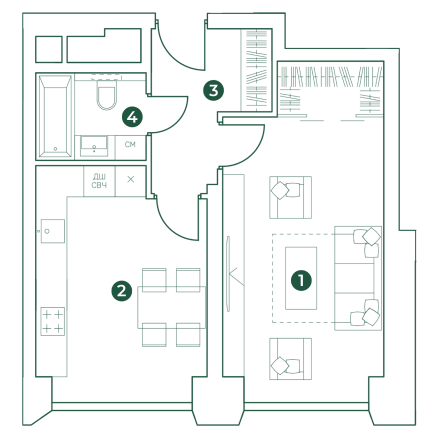
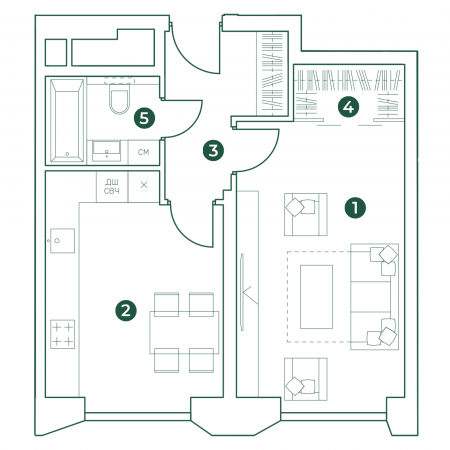
Very update

Changed region(s): [[0.0297, 0.0297, 0.9498, 0.9795]]

diff --git a/very/index.html b/very/index.html
@@ -1662,7 +1662,7 @@
                               >
                             </li>
                           </ul>
-                          <span class="price-block">10 416 240 ₽</span>
+                          <span class="price-block">10 463 160 ₽</span>
                         </div>
                       </div>
                       <div class="cta-layer cta-layer_gradient">
@@ -1788,7 +1788,7 @@
                             alt=""
                           />
                           <h1 class="block-title" style="margin: 0 0 20px">
-                            1-комнатная квартира 42.18 м²
+                            1-комнатная квартира 43.23 м²
                           </h1>
                           <ul
                             class="layout-params-list"
@@ -1813,7 +1813,7 @@
                               <span class="page-text">Гардеробная</span>
                             </li>
                           </ul>
-                          <span class="price-block">16 200 000 ₽</span>
+                          <span class="price-block">19 712 880 ₽</span>
                         </div>
                       </div>
                       <div class="cta-layer cta-layer_gradient">
@@ -1843,13 +1843,14 @@
                       >
                         <div class="attachment-cnt" style="padding-top: 30px">
                           <h2 class="block-title" style="margin: 0 0 12px">
-                            Общая площадь - 42.18 м²
+                            Общая площадь - 43.23 м²
                           </h2>
                           <ol class="ordered-list">
-                            <li>Гостиная — 18.9 м²</li>
-                            <li>Кухня — 14.01 м²</li>
-                            <li>Коридор — 5.69 м²</li>
-                            <li>Санузел — 3.58 м²</li>
+                            <li>Гостиная — 15.66 м²</li>
+                            <li>Кухня — 14.3 м²</li>
+                            <li>Коридор — 5.75 м²</li>
+                            <li>Гардероб — 3.9 м²</li>
+                            <li>Санузел — 3.62 м²</li>
                           </ol>
                           <h2 class="block-title">Особенности</h2>
                           <ul
@@ -1971,7 +1972,7 @@
                               >
                             </li>
                           </ul>
-                          <span class="price-block">18 834 450 ₽</span>
+                          <span class="price-block">20 262 000 ₽</span>
                         </div>
                       </div>
                       <div class="cta-layer cta-layer_gradient">
@@ -2130,7 +2131,7 @@
                               >
                             </li>
                           </ul>
-                          <span class="price-block">21 236 370 ₽</span>
+                          <span class="price-block">22 760 635 ₽</span>
                         </div>
                       </div>
                       <div class="cta-layer cta-layer_gradient">
@@ -2260,7 +2261,7 @@
                             alt=""
                           />
                           <h1 class="block-title" style="margin: 0 0 30px">
-                            3-комнатная квартира 72.27&nbsp;м²
+                            3-комнатная квартира 76.82&nbsp;м²
                           </h1>
                           <ul
                             class="layout-params-list"
@@ -2298,7 +2299,7 @@
                               <span class="page-text">Вид на Останкино</span>
                             </li>
                           </ul>
-                          <span class="price-block">29 486 160 ₽</span>
+                          <span class="price-block">33 954 440 ₽</span>
                         </div>
                       </div>
                       <div class="cta-layer cta-layer_gradient">
@@ -2328,16 +2329,15 @@
                       >
                         <div class="attachment-cnt" style="padding-top: 30px">
                           <h2 class="block-title" style="margin: 0 0 12px">
-                            Общая площадь — 72.27 м²
+                            Общая площадь — 76.82 м²
                           </h2>
                           <ol class="ordered-list">
-                            <li>Кухня-гостиная — 25.4 м²</li>
-                            <li>Спальня — 14.66 м²</li>
-                            <li>Спальня — 16.22 м²</li>
-                            <li>Коридор — 2.55 м²</li>
-                            <li>Коридор — 4.85 м²</li>
-                            <li>Санузел — 4.27 м²</li>
-                            <li>Санузел — 4.32 м²</li>
+                            <li>Кухня-гостиная — 29.12 м²</li>
+                            <li>Спальня — 14.63 м²</li>
+                            <li>Спальня — 16.34 м²</li>
+                            <li>Коридор — 8.43 м²</li>
+                            <li>Санузел — 4.24 м²</li>
+                            <li>Санузел — 4.06 м²</li>
                           </ol>
                           <h2 class="block-title">Особенности</h2>
                           <ul
@@ -2402,6 +2402,159 @@
                   </div>
 
                   <!-- VERY: SLIDE 5-6 -->
+                  <div class="swiper-slide" style="background-color: white">
+                    <div class="top-gradient"></div>
+                    <div class="stories-slider-actions">
+                      <button class="stories-slider-close-button"></button>
+                    </div>
+                    <div
+                      class="stories-slider-content"
+                      style="
+                        display: flex;
+                        flex-direction: column;
+                        justify-content: space-between;
+                      "
+                    >
+                      <div class="stories-slider-cnt" style="padding: 32px 0 0">
+                        <div class="wrapper">
+                          <img
+                            class="logo"
+                            src="images/very-logo.svg"
+                            width="89"
+                            height="23"
+                            alt=""
+                            style="margin-bottom: 20px"
+                          />
+                          <img
+                            class="layout-image"
+                            src="images/layouts/layout-6.png"
+                            width="219"
+                            height="219"
+                            alt=""
+                          />
+                          <h1 class="block-title" style="margin: 0 0 30px">
+                            Квартира-студия 23.81&nbsp;м²
+                          </h1>
+                          <ul
+                            class="layout-params-list"
+                            style="margin-bottom: 33px"
+                          >
+                            <li>
+                              <img
+                                src="images/layouts-icons/windows-icon.svg"
+                                width="32"
+                                height="32"
+                                alt=""
+                              />
+                              <span class="page-text">Панорамные окна</span>
+                            </li>
+                            <li>
+                              <img
+                                src="images/layouts-icons/botanic-view.svg"
+                                width="32"
+                                height="30"
+                                alt=""
+                              />
+                              <span class="page-text"
+                                >Вид на Малый Ботанический сад</span
+                              >
+                            </li>
+                          </ul>
+                          <span class="price-block">11 404 990 ₽</span>
+                        </div>
+                      </div>
+                      <div class="cta-layer cta-layer_gradient">
+                        <div
+                          class="cta-layer__cnt"
+                          style="position: relative; z-index: 999999"
+                        >
+                          <a class="attachment-btn" role="button">
+                            <img src="images/attachment-icon.svg" alt="" />
+                            Подробнее
+                          </a>
+                        </div>
+                      </div>
+                    </div>
+
+                    <div class="attachment">
+                      <button class="attachment-close-btn attachment-close">
+                        <img src="images/sidebar-close.svg" alt="" />
+                      </button>
+                      <div
+                        class="attachment-drawer"
+                        style="
+                          display: flex;
+                          flex-direction: column;
+                          justify-content: space-between;
+                        "
+                      >
+                        <div class="attachment-cnt" style="padding-top: 30px">
+                          <h2 class="block-title" style="margin: 0 0 12px">
+                            Общая площадь — 23.81 м²
+                          </h2>
+                          <ol class="ordered-list">
+                            <li>Кухня-гостиная — 16.38 м²</li>
+                            <li>Коридор — 4.06 м²</li>
+                            <li>Санузел — 3.37 м²</li>
+                          </ol>
+                          <h2 class="block-title">Особенности</h2>
+                          <ul
+                            class="attachment-list"
+                            style="margin-bottom: 40px"
+                          >
+                            <li>Панорамные окна</li>
+                            <li>Вид на Малый Ботанический сад</li>
+                          </ul>
+                        </div>
+                        <div class="attachment-cta">
+                          <button
+                            class="btn btn_small-font"
+                            onclick="this.nextElementSibling.classList.toggle('active')"
+                          >
+                            Забронировать
+                          </button>
+                          <div class="messengers-popup">
+                            <span class="messengers-popup__title"
+                              >Свяжитесь с нами</span
+                            >
+                            <div class="messengers-popup__buttons">
+                              <button
+                                role="button"
+                                onclick="window.location='https://t.me/OsnovaChatPlatformBot'"
+                              >
+                                <img
+                                  src="images/telegram-icon_color.svg"
+                                  layout="responsive"
+                                  width="36"
+                                  height="36"
+                                  alt=""
+                                />
+                              </button>
+                              <button
+                                role="button"
+                                onclick="window.location='https://wa.me/79030155954'"
+                              >
+                                <img
+                                  src="images/whatsapp-icon_color.svg"
+                                  width="36"
+                                  height="36"
+                                  alt=""
+                                />
+                              </button>
+                            </div>
+                          </div>
+                          <button
+                            role="button"
+                            class="btn btn-personal-form btn_dark btn_small-font"
+                          >
+                            Получить индивидуальную подборку
+                          </button>
+                        </div>
+                      </div>
+                    </div>
+                  </div>
+
+                  <!-- VERY: SLIDE 5-7 -->
                   <div class="swiper-slide" style="background-color: white">
                     <div class="top-gradient"></div>
                     <div class="stories-slider-actions">
@@ -2783,22 +2936,24 @@
                               >
                             </div>
                             <div class="therms-content-block__content">
-                              <p class="list-title">
+                              <!-- <p class="list-title">
                                 Доступны несколько видов рассрочек:
-                              </p>
+                              </p> -->
                               <ul class="marked-list">
-                                <li>Квартальная, на 12 и 18 месяцев</li>
                                 <li>
+                                  Рассрочка до ввода в эксплуатацию (март 2024
+                                  года)
+                                </li>
+                                <!-- <li>
                                   <span
                                     >Первоначальный взнос <b>от 15%</b></span
                                   >
                                 </li>
-                                <li><b>без %*</b></li>
+                                <li><b>без %*</b></li> -->
                               </ul>
-                              <span style="font-size: 10px; color: #3f4440"
+                              <!-- <span style="font-size: 10px; color: #3f4440"
                                 >* подробную информация уточняйте у
-                                менеджера</span
-                              >
+                                менеджера</span -->
                             </div>
                           </div>
                         </div>
@@ -2817,7 +2972,7 @@
                   </div>
 
                   <!-- VERY: SLIDE 6-2 -->
-                  <div class="swiper-slide" style="background-color: white">
+                  <!-- <div class="swiper-slide" style="background-color: white">
                     <div class="top-gradient"></div>
                     <div class="stories-slider-actions">
                       <button class="stories-slider-close-button"></button>
@@ -2900,7 +3055,7 @@
                         </div>
                       </div>
                     </div>
-                  </div>
+                  </div> -->
 
                   <!-- VERY: SLIDE 6-3 -->
                   <div class="swiper-slide" style="background-color: white">
@@ -2938,7 +3093,7 @@
                                 alt=""
                               />
                               <span class="therms-content-block__title"
-                                >Cтавка 5,1%</span
+                                >Cтавка 5,3%</span
                               >
                             </div>
                             <div class="therms-content-block__content">
